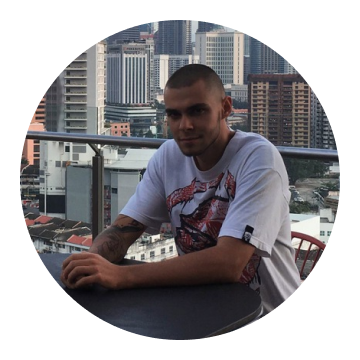
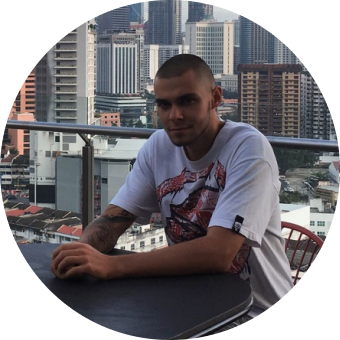
add hero section

diff --git a/css/main.css b/css/main.css
@@ -1,12 +1,5 @@
-body {
-	background: #F7F9FB;
-	font-family: 'Gotham Pro';
-	font-size: 14px;
-	font-weight: 500;
-	color: #181818;
-}
-
 .header {
+	margin-bottom: 40px;
 	background: #FFFFFF;
 	box-shadow: 0px 10px 40px rgba(89, 120, 150, 0.06);
 }
@@ -73,7 +66,6 @@ body {
 	width: 25.5%;
 }
 
-
 .header-search__btn {
 	position: absolute;
 	top: 50%;
@@ -103,7 +95,7 @@ body {
 	width: 22.92%;
 	padding: 23px 10px 23px 87px;
 	background: url('../img/profile-img.png') 29px center no-repeat;
-	background-size: 46px;
+	background-size: 40px;
 }
 
 .header-profile__name {
@@ -138,7 +130,6 @@ body {
 	font-size: 12px;
 	font-weight: 500;
 	color: #02B033;
-
 }
 
 .header__other {
@@ -146,7 +137,7 @@ body {
 	margin-right: 40px;
 	border: none;
 	border-right: 1px solid #F4F4F4;
-	background: url('../img/head-dots.svg') center 20px no-repeat;
+	background: url('../img/more-horizontal.svg') center 20px no-repeat;
 	background-color: transparent;
 	font-size: 12px;
 	font-weight: 500;
@@ -160,3 +151,125 @@ body {
 .header__other {
 	border-right: 1px solid #F4F4F4;
 }
+
+.main-container {
+	display: flex;
+	justify-content: space-between;
+}
+
+.main {
+	width: 72%;
+}
+
+.hero {
+	position: relative;
+	display: flex;
+	flex-wrap: wrap;
+	justify-content: space-between;
+	padding: 20px 30px 0px;
+	background: url('../img/hero-bg.jpg') top no-repeat #fff;
+}
+
+.hero__tools {
+	display: flex;
+	justify-content: space-between;
+	width: 100%;
+	margin-bottom: 148px;
+}
+
+.hero-tools__btn {
+	width: 36px;
+	height: 36px;
+	border: none;
+	border-radius: 4px;
+}
+
+.upload-btn {
+	background: url('../img/hero-upload.svg') center no-repeat #fff;
+	margin-right: auto;
+}
+
+.edit-btn {
+	width: 132px;
+	padding: 0 11px;
+	margin-right: 10px;
+	background: url('../img/hero-edit.svg') 10px 8px no-repeat #fff;
+	font-size: 12px;
+	text-transform: uppercase;
+	text-align: end;
+}
+
+.more-btn {
+	background: url('../img/more-vertical.svg') center no-repeat #fff;
+}
+
+.hero__pic {
+	position: relative;
+	top: -39px;
+	max-width: 160px;
+	margin-bottom: -5px;
+	border-radius: 50%;
+	box-shadow: 0 0 0 10px #fff;
+}
+
+.hero__wrapper {
+	display: flex;
+	flex-wrap: wrap;
+	align-items: center;
+	max-width: 76%;
+	max-height: 119px;
+}
+
+.hero__name {
+	max-width: 50%;
+	margin-right: auto;
+	font-size: 18px;
+}
+
+.hero__location {
+	padding-left: 22px;
+	background: url('../img/hero-location.svg') no-repeat;
+	font-size: 12px;
+	font-weight: 400;
+}
+
+.hero__description {
+	margin-bottom: 15px;
+	margin-top: 14px;
+	font-weight: 400;
+	line-height: 20px;
+}
+.hero__info-btn,
+.hero__connections-btn {
+	padding: 10px 0;
+	width: 170px;
+	border-radius: 4px;
+	border: none;
+	font-size: 12px;
+	text-transform: uppercase;
+}
+.hero__info-btn {
+margin-right: 15px;
+background: linear-gradient(#0077B5, #0E6795);
+color: #fff;
+}
+
+.hero__connections-btn {
+	background-color: transparent;
+	box-shadow: inset 0 0 0 1px #0275B1;
+	color: #0275B1;
+}
+
+.aside {
+	width: 24.6%;
+}
+
+.dashboard {}
+
+.dashboard__title {}
+
+.dashboard__btn {}
+
+.dashboard__list {}
+
+.dashboard__item {}

diff --git a/index.html b/index.html
@@ -39,6 +39,37 @@
 			<a class="header__other">Other</a>
 		</div>
 	</header>
+	<div class="main-container container">
+		<main class="main">
+			<section class="hero">
+				<div class="hero__tools hero-tools">
+					<button class="hero-tools__btn upload-btn"></button>
+					<button class="hero-tools__btn edit-btn">Edit profile</button>
+					<button class="hero-tools__btn more-btn"></button>
+				</div>
+				<img src="img/profile-img.png" alt="User pic" class="hero__pic">
+				<div class="hero__wrapper">
+					<h2 class="hero__name">Dmitry Kargaev</h2>
+					<p class="hero__location">Saint-Petersburg, Russian Federation</p>
+					<p class="hero__description">Freelance UX/UI designer, 80+ projects in web design, mobile apps (iOS & android)
+						and creative projects. Open to offers.</p>
+					<button class="hero__info-btn">Contact info</button>
+					<button class="hero__connections-btn">1,043 connections</button>
+				</div>
+			</section>
+		</main>
+		<aside class="aside">
+			<section class="dashboard">
+				<h2 class="dashboard__title">Your dashboard</h2>
+				<button class="dashboard__btn"></button>
+				<ul class="dashboard__list">
+					<li class="dashboard__item">views today</li>
+					<li class="dashboard__item">posts views</li>
+					<li class="dashboard__item">search appereances</li>
+				</ul>
+			</section>
+		</aside>
+	</div>
 </body>
 
 </html>

diff --git a/css/_global.css b/css/_global.css
@@ -9,8 +9,13 @@ html {
 }
 
 body {
-	font-family: 'font-name', sans-serif;
 	margin: 0;
+	background: #F7F9FB;
+	background: #E5E5E5;
+	font-family: 'Gotham Pro';
+	font-size: 14px;
+	font-weight: 500;
+	color: #181818;
 }
 
 h1,
@@ -44,7 +49,11 @@ img {
 	max-width: 100%;
 }
 
+section {
+	background-color: #fff;
+}
+
 .container {
-	max-width: 1440px;
+	max-width: 1180px;
 	margin: 0 auto;
 }
